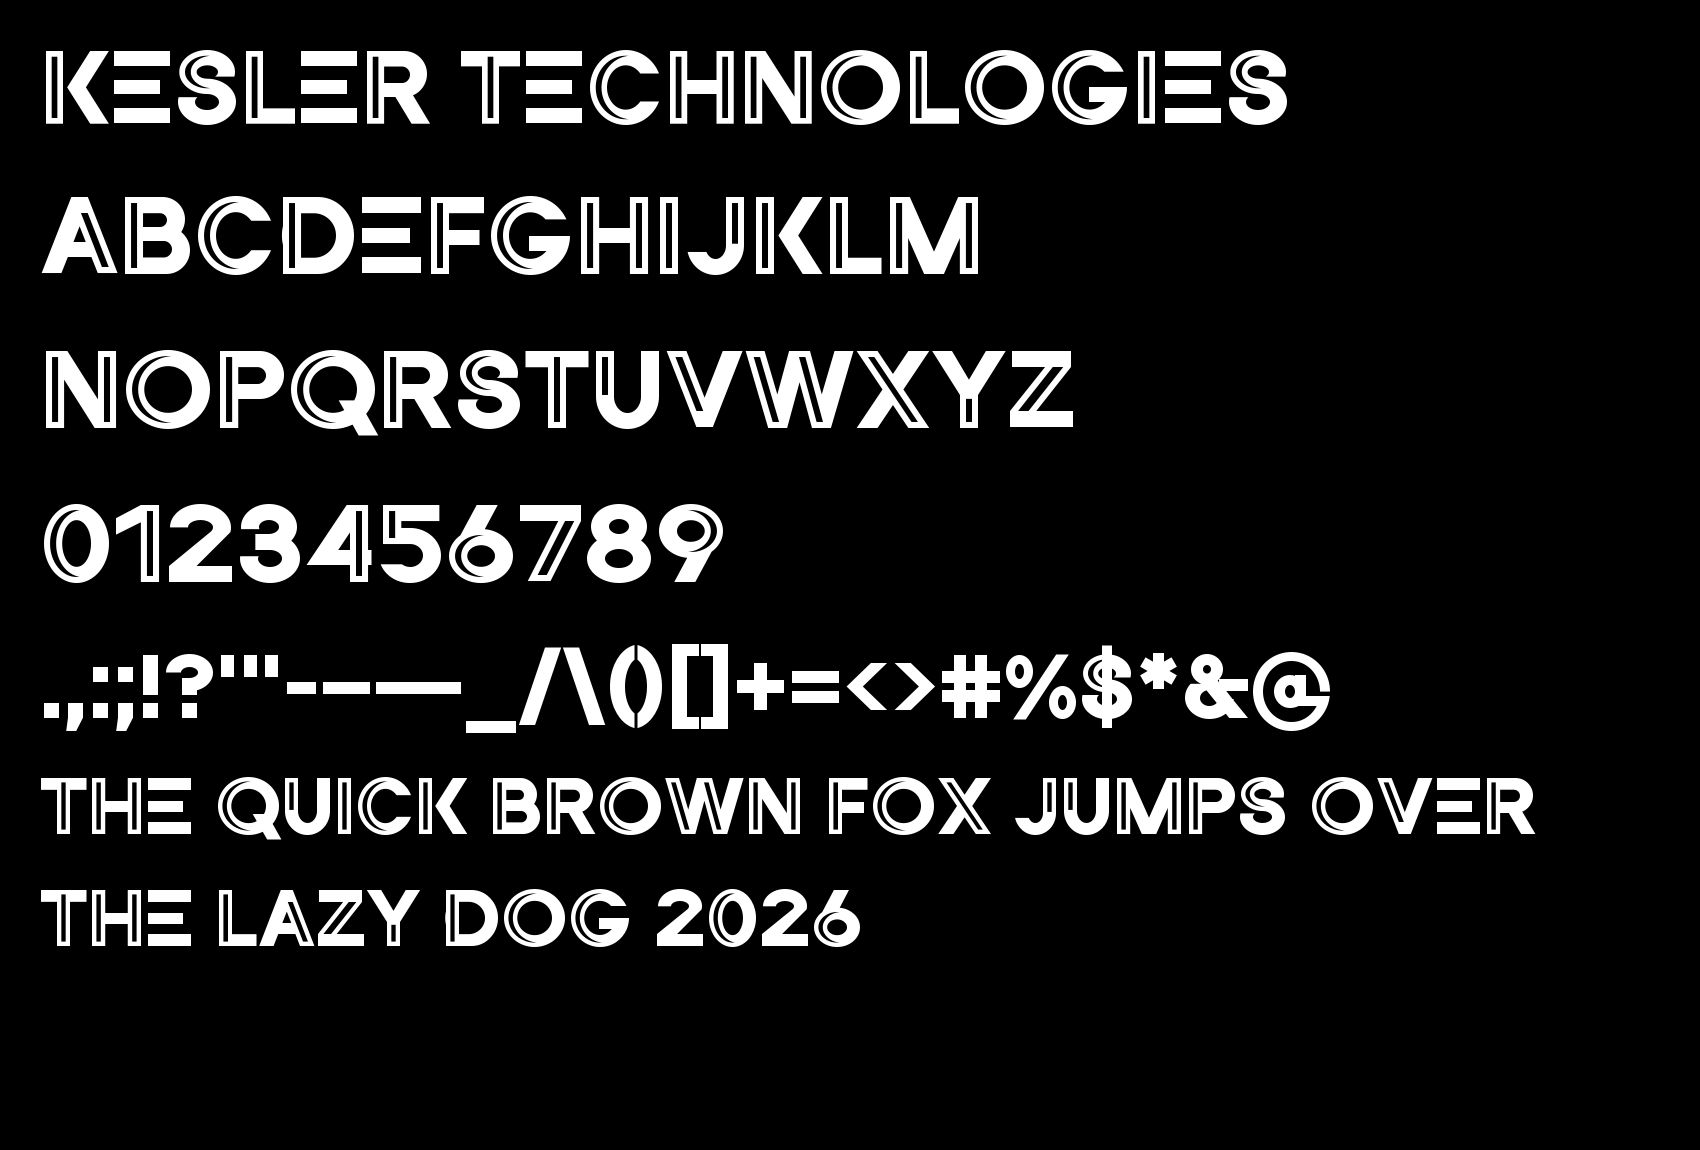
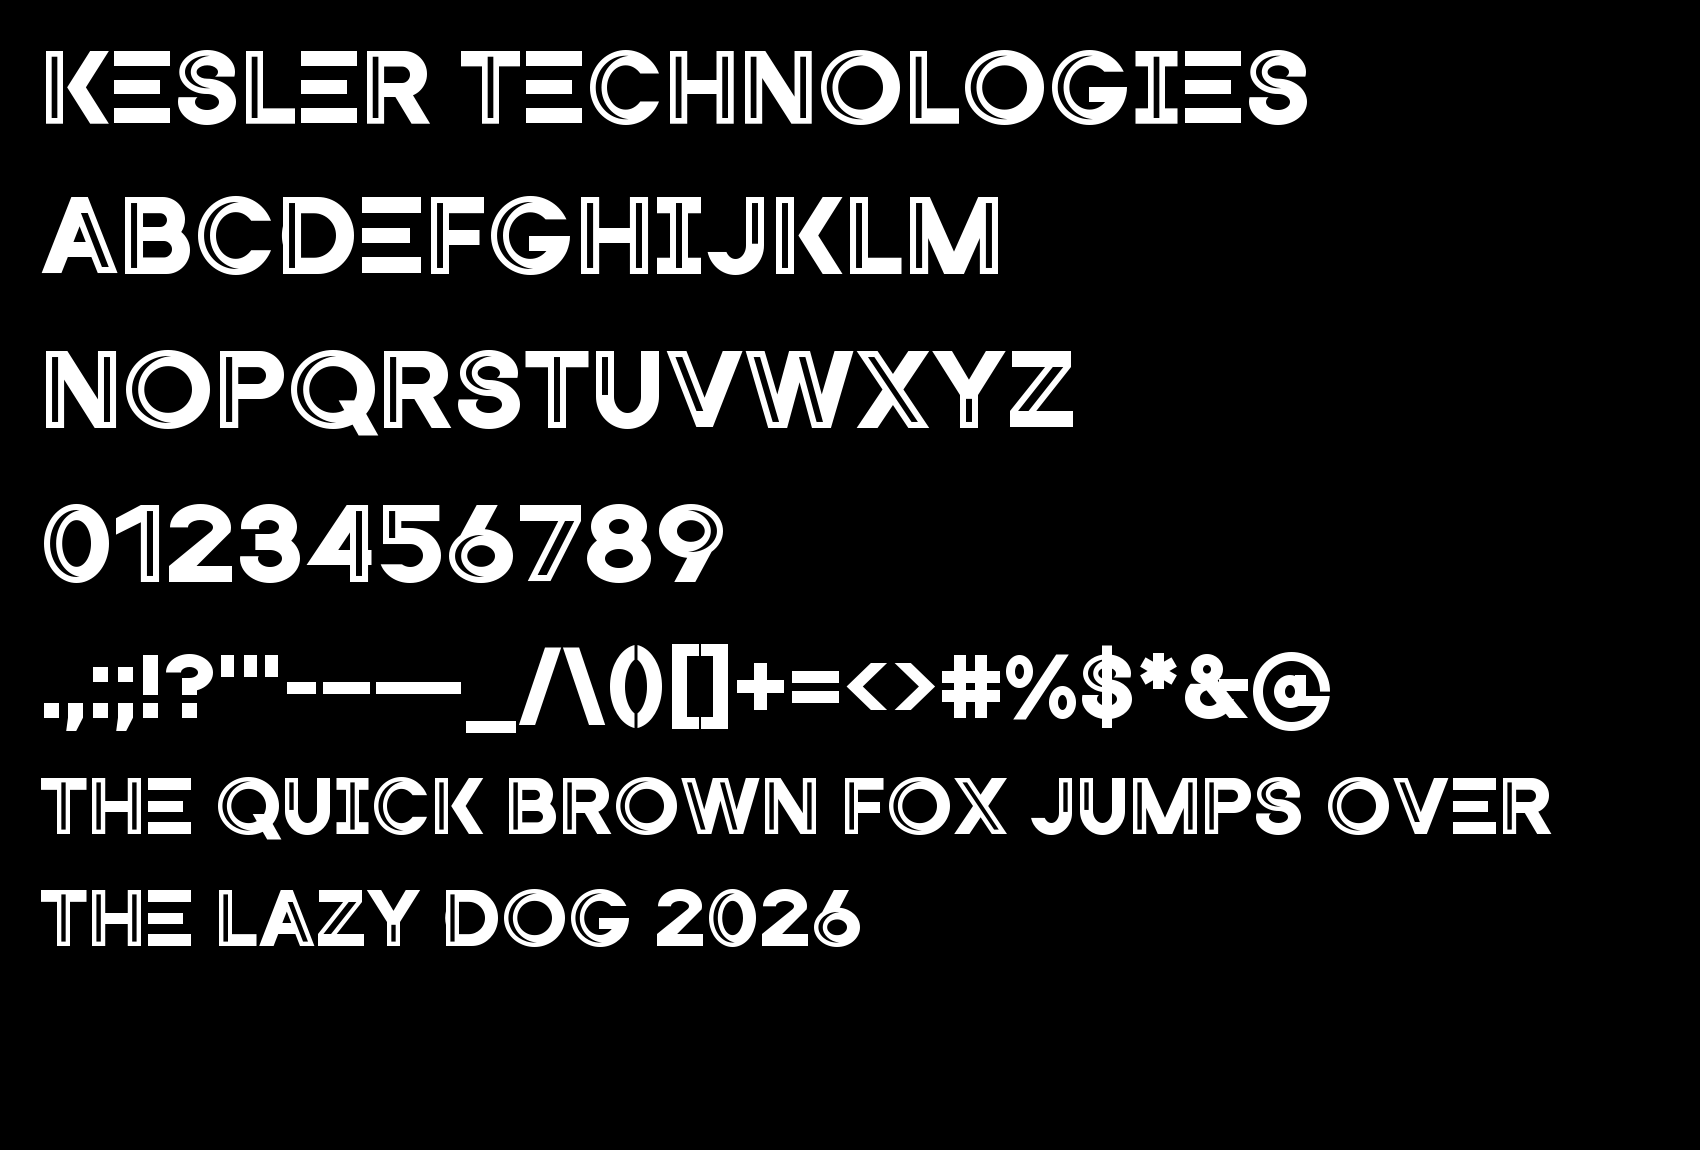
Give I top and bottom bars like T

Changed region(s): [[0.1871, 0.6696, 0.9353, 0.7304], [0.3741, 0.1522, 0.5924, 0.2435], [0.6547, 0.0304, 0.7794, 0.1217]]

diff --git a/sources/build_ksf.py b/sources/build_ksf.py
@@ -249,9 +249,12 @@ def _():
 
 
 # -- I
-@glyph("I", [0x49], V)
+@glyph("I", [0x49], 400, 30, 30)
 def _():
-    return SUB(R(0, 0, V, CAP), vslit(0))
+    # serifed I: centred hollow stem capped top and bottom like T's crossbar
+    w = 400
+    sx = w / 2 - V / 2
+    return SUB(U(R(0, CAP - H, w, CAP), R(0, 0, w, H), R(sx, 0, sx + V, CAP)), vslit(sx))
 
 
 # -- J
